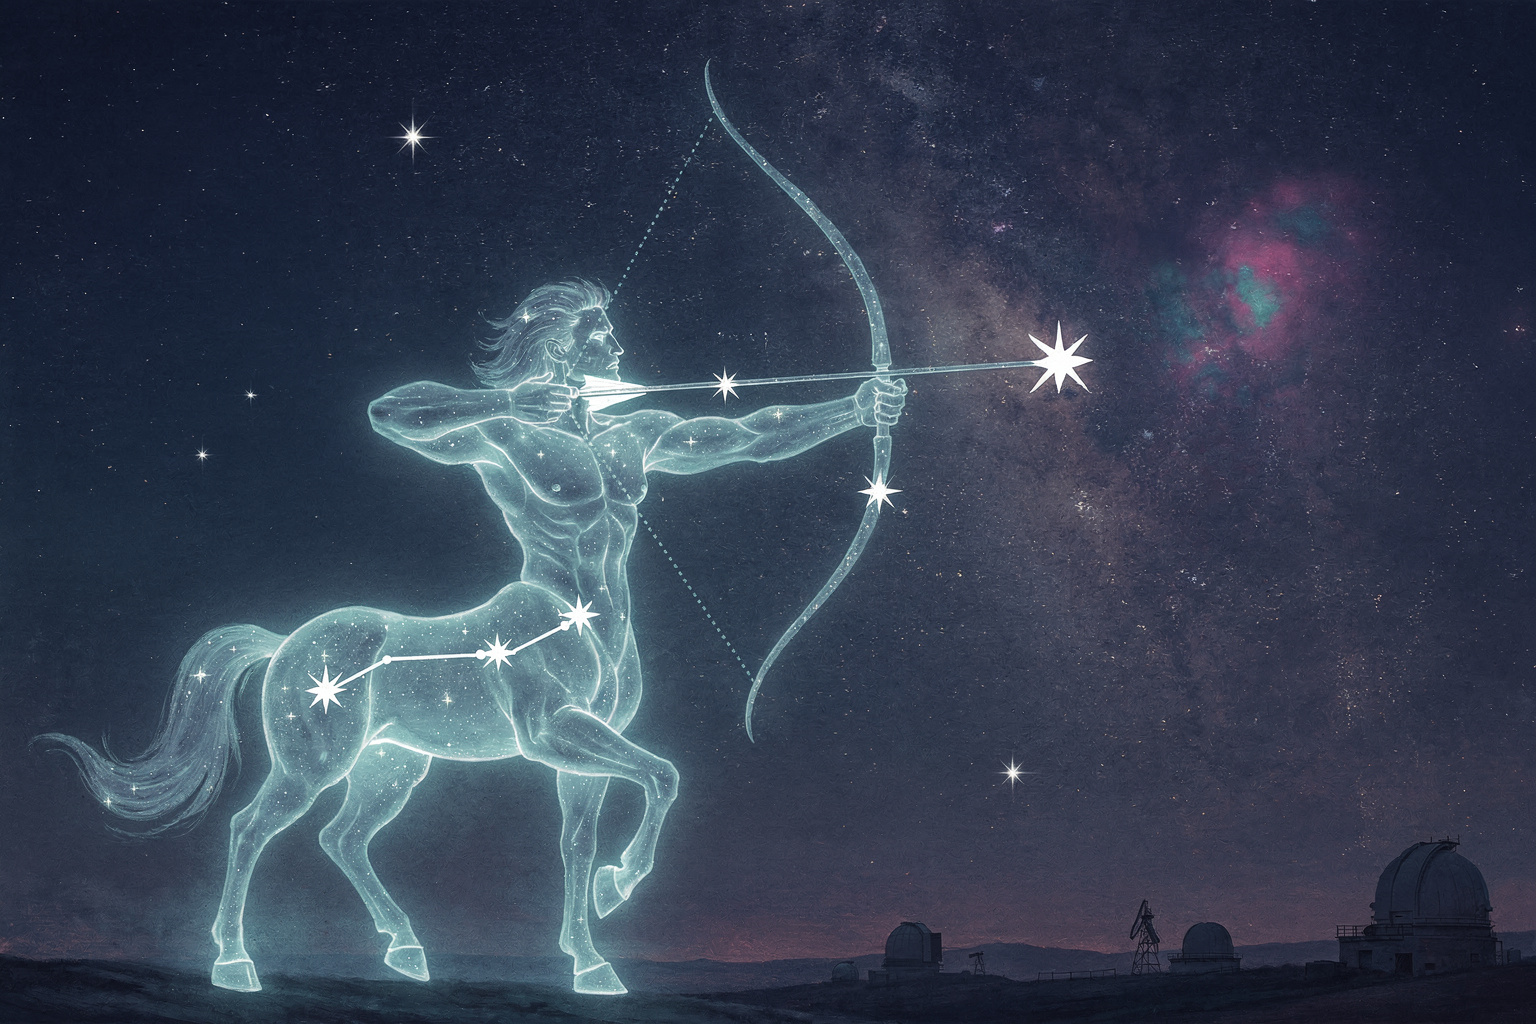
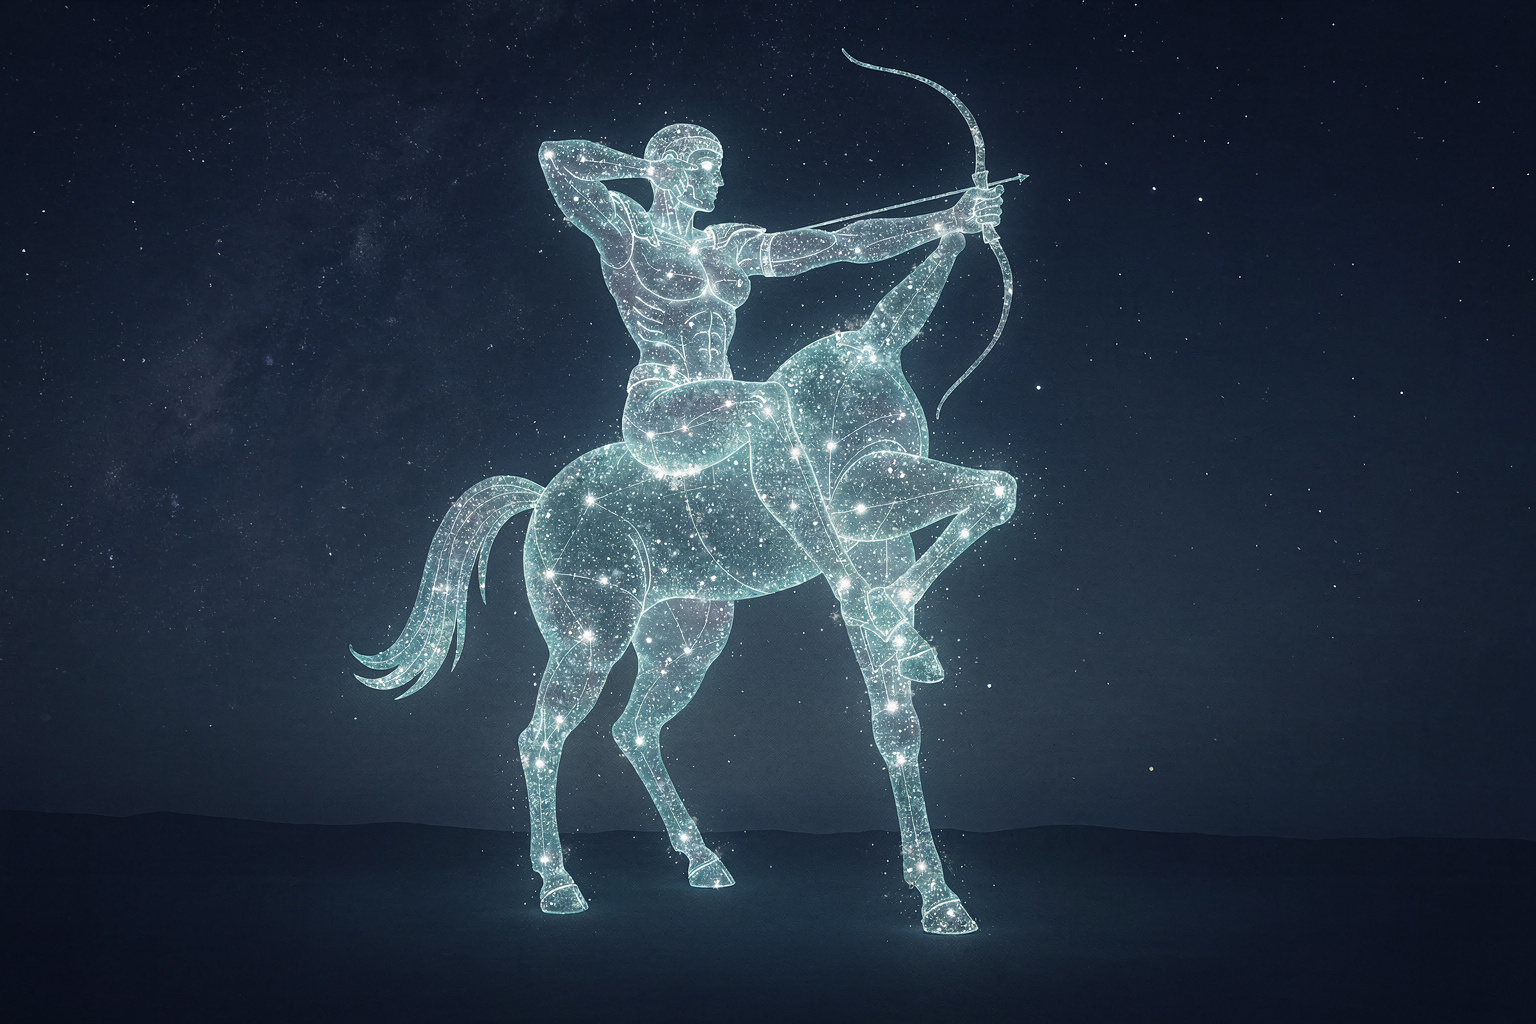
Night hero: enrich the registered figure into a luminous form; orient the aura
Follow-up to the layered hero stage. The registered star-figure (the layer that
actually sits on the real stars) was thin lines; make it the hero.

- .fig-hero now renders the figure as a luminous astral FORM: limbs given volume
  by a stack of blurred rarity strokes (outer aura -> volume -> body) under a
  bright starlight core, with radiant orbs at each star. It reads as a figure of
  light ON the real stars, and it -- not the painting -- carries the exact match.

- Add HERO_AURA_ADJ[slug]: a per-figure CSS transform on the painting aura
  (flip/scale/shift) so the fixed raster sits roughly behind the figure. Most
  existing paintings already orient well (Orion, Leo line up beautifully);
  Sagittarius faced the wrong way, so flip it (scaleX(-1)) and swap its art for a
  cleaner regeneration.

Why not regenerate every painting to register onto the stars? Empirically, Flux
text-to-image -- even flux2_max fed the real star-skeleton as a structural
reference -- will not pose a figure onto exact star positions; it paints a
generic, well-composed figure (often mirrored). And the real stars do not form a
tidy figure anyway -- that is the whole point of the feature. So the enriched
on-the-stars figure is the true match; the painting is oriented mood behind it.

Docs (CLAUDE.md, astral-heroic-card-art skill) updated with the finding, the
HERO_AURA_ADJ hook, and the GDI+/Flux skeleton-regen recipe.

diff --git a/index.html b/index.html
@@ -2682,11 +2682,23 @@ function figureSVG(slug,ac){
   for(const e of lines){ const a=pts[e[0]],b=pts[e[1]]; if(!a||!b)continue; chart+=`<line x1="${a.x.toFixed(1)}" y1="${a.y.toFixed(1)}" x2="${b.x.toFixed(1)}" y2="${b.y.toFixed(1)}" stroke="rgba(190,215,255,0.5)" stroke-width="1" stroke-linecap="round"/>`; }
   for(const p of pts){ const r=Math.max(1,2.4-p.mag*0.32); chart+=`<circle cx="${p.x.toFixed(1)}" cy="${p.y.toFixed(1)}" r="${r.toFixed(1)}" fill="#eaf2ff" opacity="0.92"/>`; }
   chart+='</g>';
-  // Heroic figure layer (the "after"): soft halo + bright sinew + glowing orbs.
+  // Heroic figure layer (the "after"): the constellation drawn as a luminous astral
+  // FORM sitting exactly on the real stars — rarity-coloured limbs given volume by a
+  // stack of blurred strokes (outer aura → volume → body) under a bright starlight
+  // core, with radiant orbs at each star. This is the registered figure that always
+  // matches; the painting behind it is only mood.
+  const strokeLayer=(w,col,op,blur,glow)=>{ let t='';
+    for(const e of lines){ const a=pts[e[0]],b=pts[e[1]]; if(!a||!b)continue; t+=`<line x1="${a.x.toFixed(1)}" y1="${a.y.toFixed(1)}" x2="${b.x.toFixed(1)}" y2="${b.y.toFixed(1)}" stroke="${col}" stroke-width="${w}" stroke-linecap="round" stroke-linejoin="round"/>`; }
+    const f=[]; if(blur)f.push(`blur(${blur}px)`); if(glow)f.push(`drop-shadow(0 0 3px ${ac})`);
+    return `<g opacity="${op}"${f.length?` style="filter:${f.join(' ')}"`:''}>${t}</g>`; };
   let hero='<g class="fig-hero">';
-  for(const e of lines){ const a=pts[e[0]],b=pts[e[1]]; if(!a||!b)continue; hero+=`<line x1="${a.x.toFixed(1)}" y1="${a.y.toFixed(1)}" x2="${b.x.toFixed(1)}" y2="${b.y.toFixed(1)}" stroke="${ac}" stroke-width="5" stroke-linecap="round" opacity="0.16"/>`; }
-  for(const e of lines){ const a=pts[e[0]],b=pts[e[1]]; if(!a||!b)continue; hero+=`<line x1="${a.x.toFixed(1)}" y1="${a.y.toFixed(1)}" x2="${b.x.toFixed(1)}" y2="${b.y.toFixed(1)}" stroke="${ac}" stroke-width="1.7" stroke-linecap="round" opacity="0.95" style="filter:drop-shadow(0 0 3px ${ac})"/>`; }
-  for(const p of pts){ const r=Math.max(1.5,3-p.mag*0.34); hero+=`<circle cx="${p.x.toFixed(1)}" cy="${p.y.toFixed(1)}" r="${r.toFixed(1)}" fill="#fff" style="filter:drop-shadow(0 0 ${(r*1.8).toFixed(1)}px ${ac})"/>`; }
+  hero+=strokeLayer(15,ac,0.10,4,false);   // outer aura
+  hero+=strokeLayer(8,ac,0.20,1.5,false);  // volume
+  hero+=strokeLayer(3.4,ac,0.60,0,false);  // body
+  hero+=strokeLayer(1.4,'#eaf6ff',0.95,0,true); // bright starlight core
+  for(const p of pts){ const r=Math.max(1.6,3.1-p.mag*0.34);
+    hero+=`<circle cx="${p.x.toFixed(1)}" cy="${p.y.toFixed(1)}" r="${(r*2.2).toFixed(1)}" fill="${ac}" opacity="0.5" style="filter:blur(2px)"/>`;
+    hero+=`<circle cx="${p.x.toFixed(1)}" cy="${p.y.toFixed(1)}" r="${r.toFixed(1)}" fill="#fff" style="filter:drop-shadow(0 0 ${(r*1.6).toFixed(1)}px ${ac})"/>`; }
   hero+='</g>';
   // Persistent anchor label (names the brightest star so the figure stays legible).
   let lab='';
@@ -4148,6 +4160,13 @@ const HERO_ART={
   cygnus:'night-heroes/cygnus.jpg', lyra:'night-heroes/lyra.jpg',
   aquila:'night-heroes/aquila.jpg', virgo:'night-heroes/virgo.jpg'
 };
+// Per-figure CSS transform on the painting AURA so its figure sits roughly behind
+// the registered star-figure (the paintings are fixed raster — they can't register
+// pixel-exact, so this just flips/scales/shifts the gross pose into place). Tuned by
+// eye against the overlay. `scaleX(-1)` mirrors a figure that faces the wrong way.
+const HERO_AURA_ADJ={
+  sagittarius:'scaleX(-1) scale(1.04)'
+};
 // Build + open the story sheet for a sky object (constellation or phenomenon).
 function renderStoryBody(slug,lat,lng){
   const L=SKY_LORE[slug]; if(!L) return '';
@@ -4163,7 +4182,7 @@ function renderStoryBody(slug,lat,lng){
     // exists). No loading="lazy": the modal (and this <img>) only exist once the
     // card is tapped, so the fetch is already on-demand; lazy would stop it loading
     // inside the fixed-position sheet. The SW runtime-caches it after the first open.
-    if(art) s+=`<img class="sky-hero-aura" src="${art}" alt="" decoding="async" onerror="var st=this.closest('.sky-hero-stage'); if(st) st.classList.remove('has-hero'); this.remove();"><div class="sky-hero-veil"></div>`;
+    if(art){ const adj=HERO_AURA_ADJ[slug], ast=adj?` style="transform:${adj};transform-origin:center;"`:''; s+=`<img class="sky-hero-aura"${ast} src="${art}" alt="" decoding="async" onerror="var st=this.closest('.sky-hero-stage'); if(st) st.classList.remove('has-hero'); this.remove();"><div class="sky-hero-veil"></div>`; }
     // Registered star-figure on top — same projection both phases, so the stars
     // stay locked over the aura (exact match).
     s+=`<div class="sky-hero-fig">${figureSVG(slug,ac)}</div>`;

diff --git a/CLAUDE.md b/CLAUDE.md
@@ -63,11 +63,23 @@ Hosted on GitHub Pages at https://foxorama.github.io/golf-finder/ (deploys from
   top. That figure draws the constellation's **full real-star list** as two pixel-aligned
   layers — `.fig-chart` (faint astral chart) crossfading into `.fig-hero` (the same stars
   lit into a glowing rarity figure) — **both from one `projFigure` projection, so the stars
-  never move between phases**. That shared, locked skeleton is the whole point: the same
-  star-points ride on top of the painting (the "exact match" — see why the Teapot *is* the
-  archer). The painting's own painted anatomy only roughly aligns (it's fixed raster — can't
-  register pixel-exact), which is why it's the aura and the crisp figure carries the meaning;
-  Orion happens to line up beautifully, Sagittarius is looser. If the `<img>` 404s, `.has-hero`
+  never move between phases**. `.fig-hero` is drawn as a **luminous astral *form*** — the
+  limbs given volume by a stack of blurred rarity-coloured strokes (outer aura → volume →
+  body) under a bright starlight core, with radiant orbs at each star — so the thing sitting
+  exactly on the real stars reads as the figure itself, and it (not the painting) carries the
+  match. **Hard-won finding: Flux text-to-image CANNOT pose a painting onto the exact stars.**
+  Even `flux2_max` fed the real star-skeleton as a structural reference just paints a generic,
+  well-composed figure (often facing the wrong way) — and the real stars don't form a tidy
+  figure anyway (that's the point). So don't regenerate art hoping it'll register; instead the
+  enriched `.fig-hero` is the true match, and the painting is oriented behind it by
+  **`HERO_AURA_ADJ[slug]`** — a per-figure CSS transform on `.sky-hero-aura`
+  (`scaleX(-1)`/`scale`/`translate`) to flip/scale/shift the gross pose into place (most
+  existing paintings already orient fine — Orion & Leo line up beautifully; Sagittarius needed
+  a flip + its art swapped for a cleaner regen). To regenerate a painting anyway: render the
+  figure skeleton with GDI+ in the *exact* `projFigure` framing (1536×1024 = 5.12× the
+  300×200 box, pad 153.6), upload via the Flux MCP `request_upload_url` (PUT works on
+  `app.bfl.ai`; force TLS1.2 in PS5.1), `generate_image(flux2_max)`, download the result
+  (`get_history` → `image_url`) to `night-heroes/<slug>.jpg`. If the `<img>` 404s, `.has-hero`
   drops and the figure shows on the dark bg. See `night-heroes/HERO-ART-SPEC.md`. The whole
   visual style — and how to add a new card so it matches — is documented in the
   **`astral-heroic-card-art` skill** (`.claude/skills/`). Keep new figures' star coords

diff --git a/.claude/skills/astral-heroic-card-art/SKILL.md b/.claude/skills/astral-heroic-card-art/SKILL.md
@@ -58,11 +58,13 @@ the heroic frame.
   star-figure (`figureSVG(slug,ac)`) sits **on top**. That figure renders the constellation's
   **full real-star list** as two pixel-aligned layers — `.fig-chart` (faint chart) ↔ `.fig-hero`
   (the same stars lit into a glowing rarity figure) — from **one `projFigure` projection, so the
-  stars never move between phases**. The shared locked skeleton is the design: the identical
-  star-points ride over the painting (the "exact match" — see why the asterism *is* the figure).
-  The fixed raster can't register pixel-exact, so it's the aura and the crisp figure carries the
-  meaning; missing/404 art drops `.has-hero` and the figure shows on the dark bg. The astral
-  chart must draw the **whole figure, not a bright sub-asterism** (Sagittarius = the full archer,
+  stars never move between phases**. `.fig-hero` is drawn as a **luminous astral *form*** —
+  volumetric glowing limbs (a stack of blurred rarity strokes) + bright starlight core + radiant
+  star-orbs — so the figure ON the real stars carries the match. The painting can't register
+  pixel-exact (fixed raster — and Flux text-to-image won't pose onto exact stars), so it's the
+  aura, oriented behind the figure per-figure by **`HERO_AURA_ADJ[slug]`** (a CSS flip/scale/shift
+  on `.sky-hero-aura`); missing/404 art drops `.has-hero` and the figure shows on the dark bg.
+  The astral chart must draw the **whole figure, not a bright sub-asterism** (Sagittarius = the full archer,
   not just the Teapot); verify any new star's J2000 coords against `star-catalog-deep.json`. See
   `night-heroes/HERO-ART-SPEC.md` for the figure art spec/prompt.
 - **Planets / deep sky / events** keep the small crest (`.sky-modal-crest`), the same
